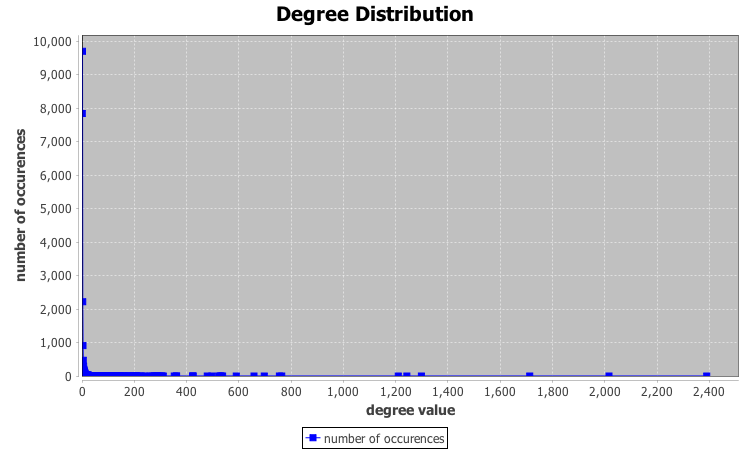
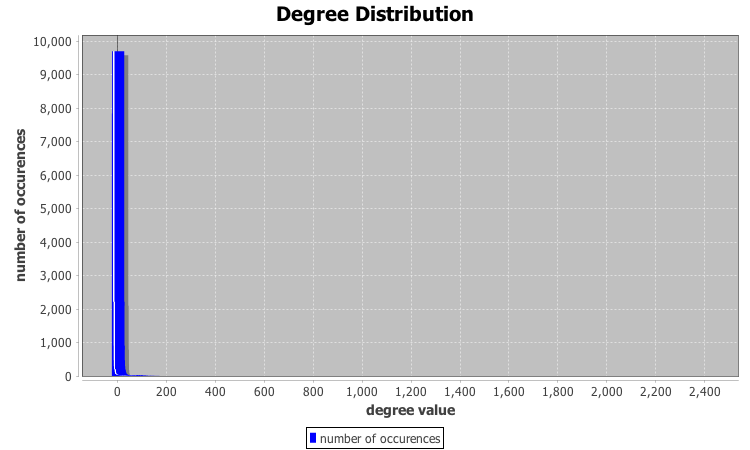
first try of local cluster coefficient

diff --git a/src/main/java/com/signalcollect/sna/gephiconnectors/DegreeSignalCollectGephiConnectorImpl.java b/src/main/java/com/signalcollect/sna/gephiconnectors/DegreeSignalCollectGephiConnectorImpl.java
@@ -3,6 +3,7 @@ package com.signalcollect.sna.gephiconnectors;
 import java.awt.Color;
 import java.io.File;
 import java.io.IOException;
+import java.text.NumberFormat;
 import java.util.Iterator;
 import java.util.Map;
 import java.util.TreeMap;
@@ -10,9 +11,12 @@ import java.util.TreeMap;
 import org.jfree.chart.ChartFactory;
 import org.jfree.chart.ChartUtilities;
 import org.jfree.chart.JFreeChart;
+import org.jfree.chart.labels.StandardCategoryItemLabelGenerator;
+import org.jfree.chart.labels.XYItemLabelGenerator;
 import org.jfree.chart.plot.PlotOrientation;
 import org.jfree.chart.plot.XYPlot;
-import org.jfree.chart.renderer.xy.XYLineAndShapeRenderer;
+import org.jfree.chart.renderer.xy.XYBarRenderer;
+import org.jfree.data.xy.XYBarDataset;
 import org.jfree.data.xy.XYSeries;
 import org.jfree.data.xy.XYSeriesCollection;
 
@@ -32,7 +36,6 @@ public class DegreeSignalCollectGephiConnectorImpl implements
 	private Graph degreeGraph;
 	private Graph propertiesGraph;
 	private DegreeDistribution degreeDistribution;
-
 
 	public DegreeSignalCollectGephiConnectorImpl(String fileName) {
 		degreeFileName = fileName;
@@ -71,7 +74,7 @@ public class DegreeSignalCollectGephiConnectorImpl implements
 	}
 
 	@Override
-	public Map<Integer,Integer> getDegreeDistrbution() {
+	public Map<Integer, Integer> getDegreeDistrbution() {
 		if (degreeResult == null) {
 			executeGraph();
 		}
@@ -94,14 +97,16 @@ public class DegreeSignalCollectGephiConnectorImpl implements
 		}
 		XYSeriesCollection dataset = new XYSeriesCollection();
 		dataset.addSeries(dSeries);
+		// dataset.setAutoWidth(true);
+		XYBarDataset dset = new XYBarDataset(dataset, 10.0);
 
 		JFreeChart chart = ChartFactory.createHistogram("Degree Distribution",
-				"degree value", "number of occurences", dataset,
+				"degree value", "number of occurences", dset,
 				PlotOrientation.VERTICAL, true, true, true);
 
 		XYPlot plot = chart.getXYPlot();
-		plot.setDataset(0, dataset);
-		XYLineAndShapeRenderer renderer0 = new XYLineAndShapeRenderer();
+		plot.setDataset(0, dset);
+		XYBarRenderer renderer0 = new XYBarRenderer();
 		plot.setRenderer(0, renderer0);
 		plot.getRendererForDataset(plot.getDataset(0)).setSeriesPaint(0,
 				Color.BLUE);
@@ -117,22 +122,23 @@ public class DegreeSignalCollectGephiConnectorImpl implements
 		double d = a.getAverage();
 		Map<String, Object> l = a.getAll();
 		long intermediate = System.currentTimeMillis();
-		double intermediateTime = Double.valueOf(intermediate-startTime)/1000d;
+		double intermediateTime = Double.valueOf(intermediate - startTime) / 1000d;
 		System.out.println("execution time: " + intermediateTime + " seconds");
-//		GraphProperties p = a.getGraphProperties();
-		Map<Integer,Integer> dd = a.getDegreeDistrbution();
+		// GraphProperties p = a.getGraphProperties();
+		Map<Integer, Integer> dd = a.getDegreeDistrbution();
 		System.out.println("The average degree is: " + d);
 		System.out.println("The single vertex degree values are: " + l);
-//		System.out.println(p);
+		// System.out.println(p);
 		long intermediate2 = System.currentTimeMillis();
-		double intermediateTime2 = Double.valueOf(intermediate2-intermediate)/1000d;
-		System.out.println("properties time: " + intermediateTime2 +" seconds");
+		double intermediateTime2 = Double.valueOf(intermediate2 - intermediate) / 1000d;
+		System.out
+				.println("properties time: " + intermediateTime2 + " seconds");
 		System.out.println(dd);
 		long stopTime = System.currentTimeMillis();
 		double elapsedTime = Double.valueOf(stopTime - startTime) / 1000d;
 		System.out.println("elapsed time until image creation: " + elapsedTime
 				+ " seconds");
-		
+
 		try {
 			a.createImageFile(dd);
 			long stopTime2 = System.currentTimeMillis();
